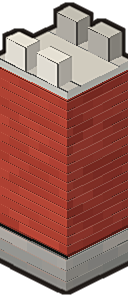
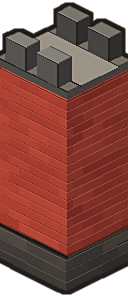
feat(city): 按 map_01 参考图重建城防——城台门楼四门 + 深灰垛口城墙
城门：3 格窄券洞升级为 6×3 灰白石城台门楼（朱红券洞、深灰垛口、黄瓦重檐楼），AI 新素材 gate_keep 296×330 / anchor [193,328]（ax=45 含菱形底点偏移）；gateKeepLane 4 格券洞与主街同宽；城墙开口 x61..66 / y61..66。城墙：垛口压顶改深灰(86,84,80)、条石基座加深，_local_build --apply 重出 8 件（尺寸不变）。gate_arch 贴图保留供牌坊复用。玩法坐标 (62,3)/(16,32) 不变；regression 75/75、build 通过、A* 四门/环路全通。

diff --git a/shanhai/src/core/iso.ts b/shanhai/src/core/iso.ts
@@ -153,6 +153,8 @@ export const ISO_TYPES: Record<string, IsoTypeDef> = {
   crate: { w: 1, h: 1, height: 44 },
   stele: { w: 1, h: 2, height: 90 },
   gate_arch: { w: 3, h: 3, height: 222 },
+  /** 参考图制式城台门楼：灰白石城台 + 朱红券洞 + 黄瓦重檐门楼（6×3，券洞 4 格宽） */
+  gate_keep: { w: 6, h: 3, height: 320 },
   /** 牌坊：复用城门贴图（art.isoModuleCandidates 里做别名） */
   paifang: { w: 3, h: 3, height: 222 },
   tree: { w: 1, h: 1, height: 186 },
@@ -213,6 +215,8 @@ export const ISO_ANCHOR_OFFSET: Record<string, { ax: number; ay: number }> = {
   palace_wall_v2: { ax: 0, ay: -5 },      // 128×211, anchor [64,206]
   palace_wall_v6: { ax: -64, ay: -5 },    // 256×275, anchor [64,270]
   pagoda: { ax: -0.5, ay: -21 },          // 267×756, anchor [133,735]
+  // 城台门楼（AI 素材 296×330）：城台底点偏 bbox 中心右侧 45px（6×3 菱形底点 (w-h)/2*32=48px 减 3px 余量）
+  gate_keep: { ax: 45, ay: -2 },          // anchor_px [193,328]
 };
 
 export function isoSize(item: IsoItem): { w: number; h: number } {
@@ -291,6 +295,23 @@ export function wideGateLane(item: IsoItem): Array<{ gx: number; gy: number }> {
   } else {
     const y0 = item.gy + Math.floor((h - 8) / 2);
     for (let dy = 0; dy < 8; dy++) for (let dx = 0; dx < w; dx++) out.push({ gx: item.gx + dx, gy: y0 + dy });
+  }
+  return out;
+}
+
+/**
+ * 城台门楼券洞：6×3 城台中央 4 格宽通道（与门内主街同宽的中间 4 列 / 4 行）。
+ * N/S 门（w6×h3）走中列 x62..65；E/W 门（w3×h6）走中行 gy62..65。
+ */
+export function gateKeepLane(item: IsoItem): Array<{ gx: number; gy: number }> {
+  const { w, h } = isoSize(item);
+  const out: Array<{ gx: number; gy: number }> = [];
+  if (w >= h) {
+    const x0 = item.gx + Math.floor((w - 4) / 2);
+    for (let dy = 0; dy < h; dy++) for (let dx = 0; dx < 4; dx++) out.push({ gx: x0 + dx, gy: item.gy + dy });
+  } else {
+    const y0 = item.gy + Math.floor((h - 4) / 2);
+    for (let dy = 0; dy < 4; dy++) for (let dx = 0; dx < w; dx++) out.push({ gx: item.gx + dx, gy: y0 + dy });
   }
   return out;
 }
@@ -436,9 +457,11 @@ export function buildCollision(layout: IsoLayout): IsoCollision {
     const lane = new Set<string>(
       item.type === 'gate_arch' || item.type === 'paifang'
         ? archLane(item).map((c) => keyOf(c.gx, c.gy))
-        : item.type === 'city_gate_tower' || item.type === 'palace_gate'
-          ? gateTowerLane(item).map((c) => keyOf(c.gx, c.gy))
-          : item.type === 'city_gate_wide' || item.type === 'city_gate_wide_v'
+          : item.type === 'city_gate_tower' || item.type === 'palace_gate'
+            ? gateTowerLane(item).map((c) => keyOf(c.gx, c.gy))
+            : item.type === 'gate_keep'
+              ? gateKeepLane(item).map((c) => keyOf(c.gx, c.gy))
+            : item.type === 'city_gate_wide' || item.type === 'city_gate_wide_v'
             ? wideGateLane(item).map((c) => keyOf(c.gx, c.gy))
             : item.type === 'bell_tower'
               ? bellTowerPassage(item).map((c) => keyOf(c.gx, c.gy))

diff --git a/shanhai/assets_src/tools/modv2/citybuild.py b/shanhai/assets_src/tools/modv2/citybuild.py
@@ -70,15 +70,15 @@ def mix(a, b, t):
     return tuple(int(round(a[i] * (1 - t) + b[i] * t)) for i in range(3))
 
 
-# 参考图配色：朱红墙身 + 灰白垛口压顶（不再从暖灰色板混出）
+# 参考图配色（map_01）：朱红墙身 + 深灰垛口压顶 + 深色条石基座
 WALL_C = (178, 62, 48)                      # 朱红砖墙（受光前脸）
 WALL_S = (126, 42, 34)                      # 朱红背光侧脸
-PARA_C = (224, 220, 210)                    # 灰白垛口 / 女墙（受光）
-PARA_S = (166, 162, 154)                    # 灰白垛口背光
+PARA_C = (86, 84, 80)                       # 深灰垛口 / 女墙（受光，参考图压顶色）
+PARA_S = (58, 56, 54)                       # 深灰垛口背光
 WALL_HI = (232, 146, 118)                   # 朱红砖缝高光（替代米白，避免洗白墙身）
-STONE = mix(IRON_L, CREAM, 0.34)            # 条石基座：保持灰白
-STONE_S = mix(STONE, DARK, 0.20)
-STONE_T = mix(STONE, CREAM, 0.22)
+STONE = mix(IRON, DARK, 0.22)               # 条石基座：深灰石
+STONE_S = mix(STONE, DARK, 0.30)
+STONE_T = mix(STONE, IRON, 0.30)
 WALK_C = mix(STONE, BEIGE, 0.30)            # 马道面
 WALK_S = mix(WALK_C, DARK, 0.16)
 GATE_C = (192, 76, 58)                      # 城台 / 券洞内壁：朱红

diff --git a/.workbuddy/memory/2026-11-13.md b/.workbuddy/memory/2026-11-13.md
@@ -30,3 +30,10 @@
 - 三份素材：palace_hall_wide.png(v1)、palace_hall_tower.png(v2)、palace_hall.png(v3 太和殿当前)。
 - 验证：npm test 75/75、build 通过；改 public PNG 后必须重启 dev server（Vite 缓存旧资源），重启 5288 后 HTTP 确认三份素材尺寸/bbox 正确。
 - 遗留：宫城其余 4 件仍旧程序化；若要 v3 视觉高度回到 5.7×人物，需再放大 footprint 或重画更高台基（未擅自做）。
+
+## 主殿视角修正为标准等距（22:29 后）
+- 用户反馈：太和殿版"整个建筑是倾斜的"。定位：屋脊近水平（应沿 26.57° 对角线）、透视有灭点、且正面朝右下与全部邻居（门朝左下）镜像相反。
+- 用户确认：改成与现有素材一致的标准等距、走重生成路线。一次生成即达标（prompt 明确约束垂直线竖直/平行线不收敛/正面朝左下/屋脊沿对角线）。
+- 落地：画布 880×744、anchor_px [440,742]、显示高 740px≈6.6×人物（比透视版 545px 更高更宏伟）；10×10 足迹/布局/iso.ts（ay 仍 -2）均不变，只改 PNG+JSON。
+- 留档：generated-images/palace_hall_taihe_persp_aligned.png（旧透视版）。
+- 验证：回归 75/75、build 通过；重启 5288 后 HTTP 确认返回 880×744 新图。宫城其余 4 件仍是旧程序化，批量待用户确认。
